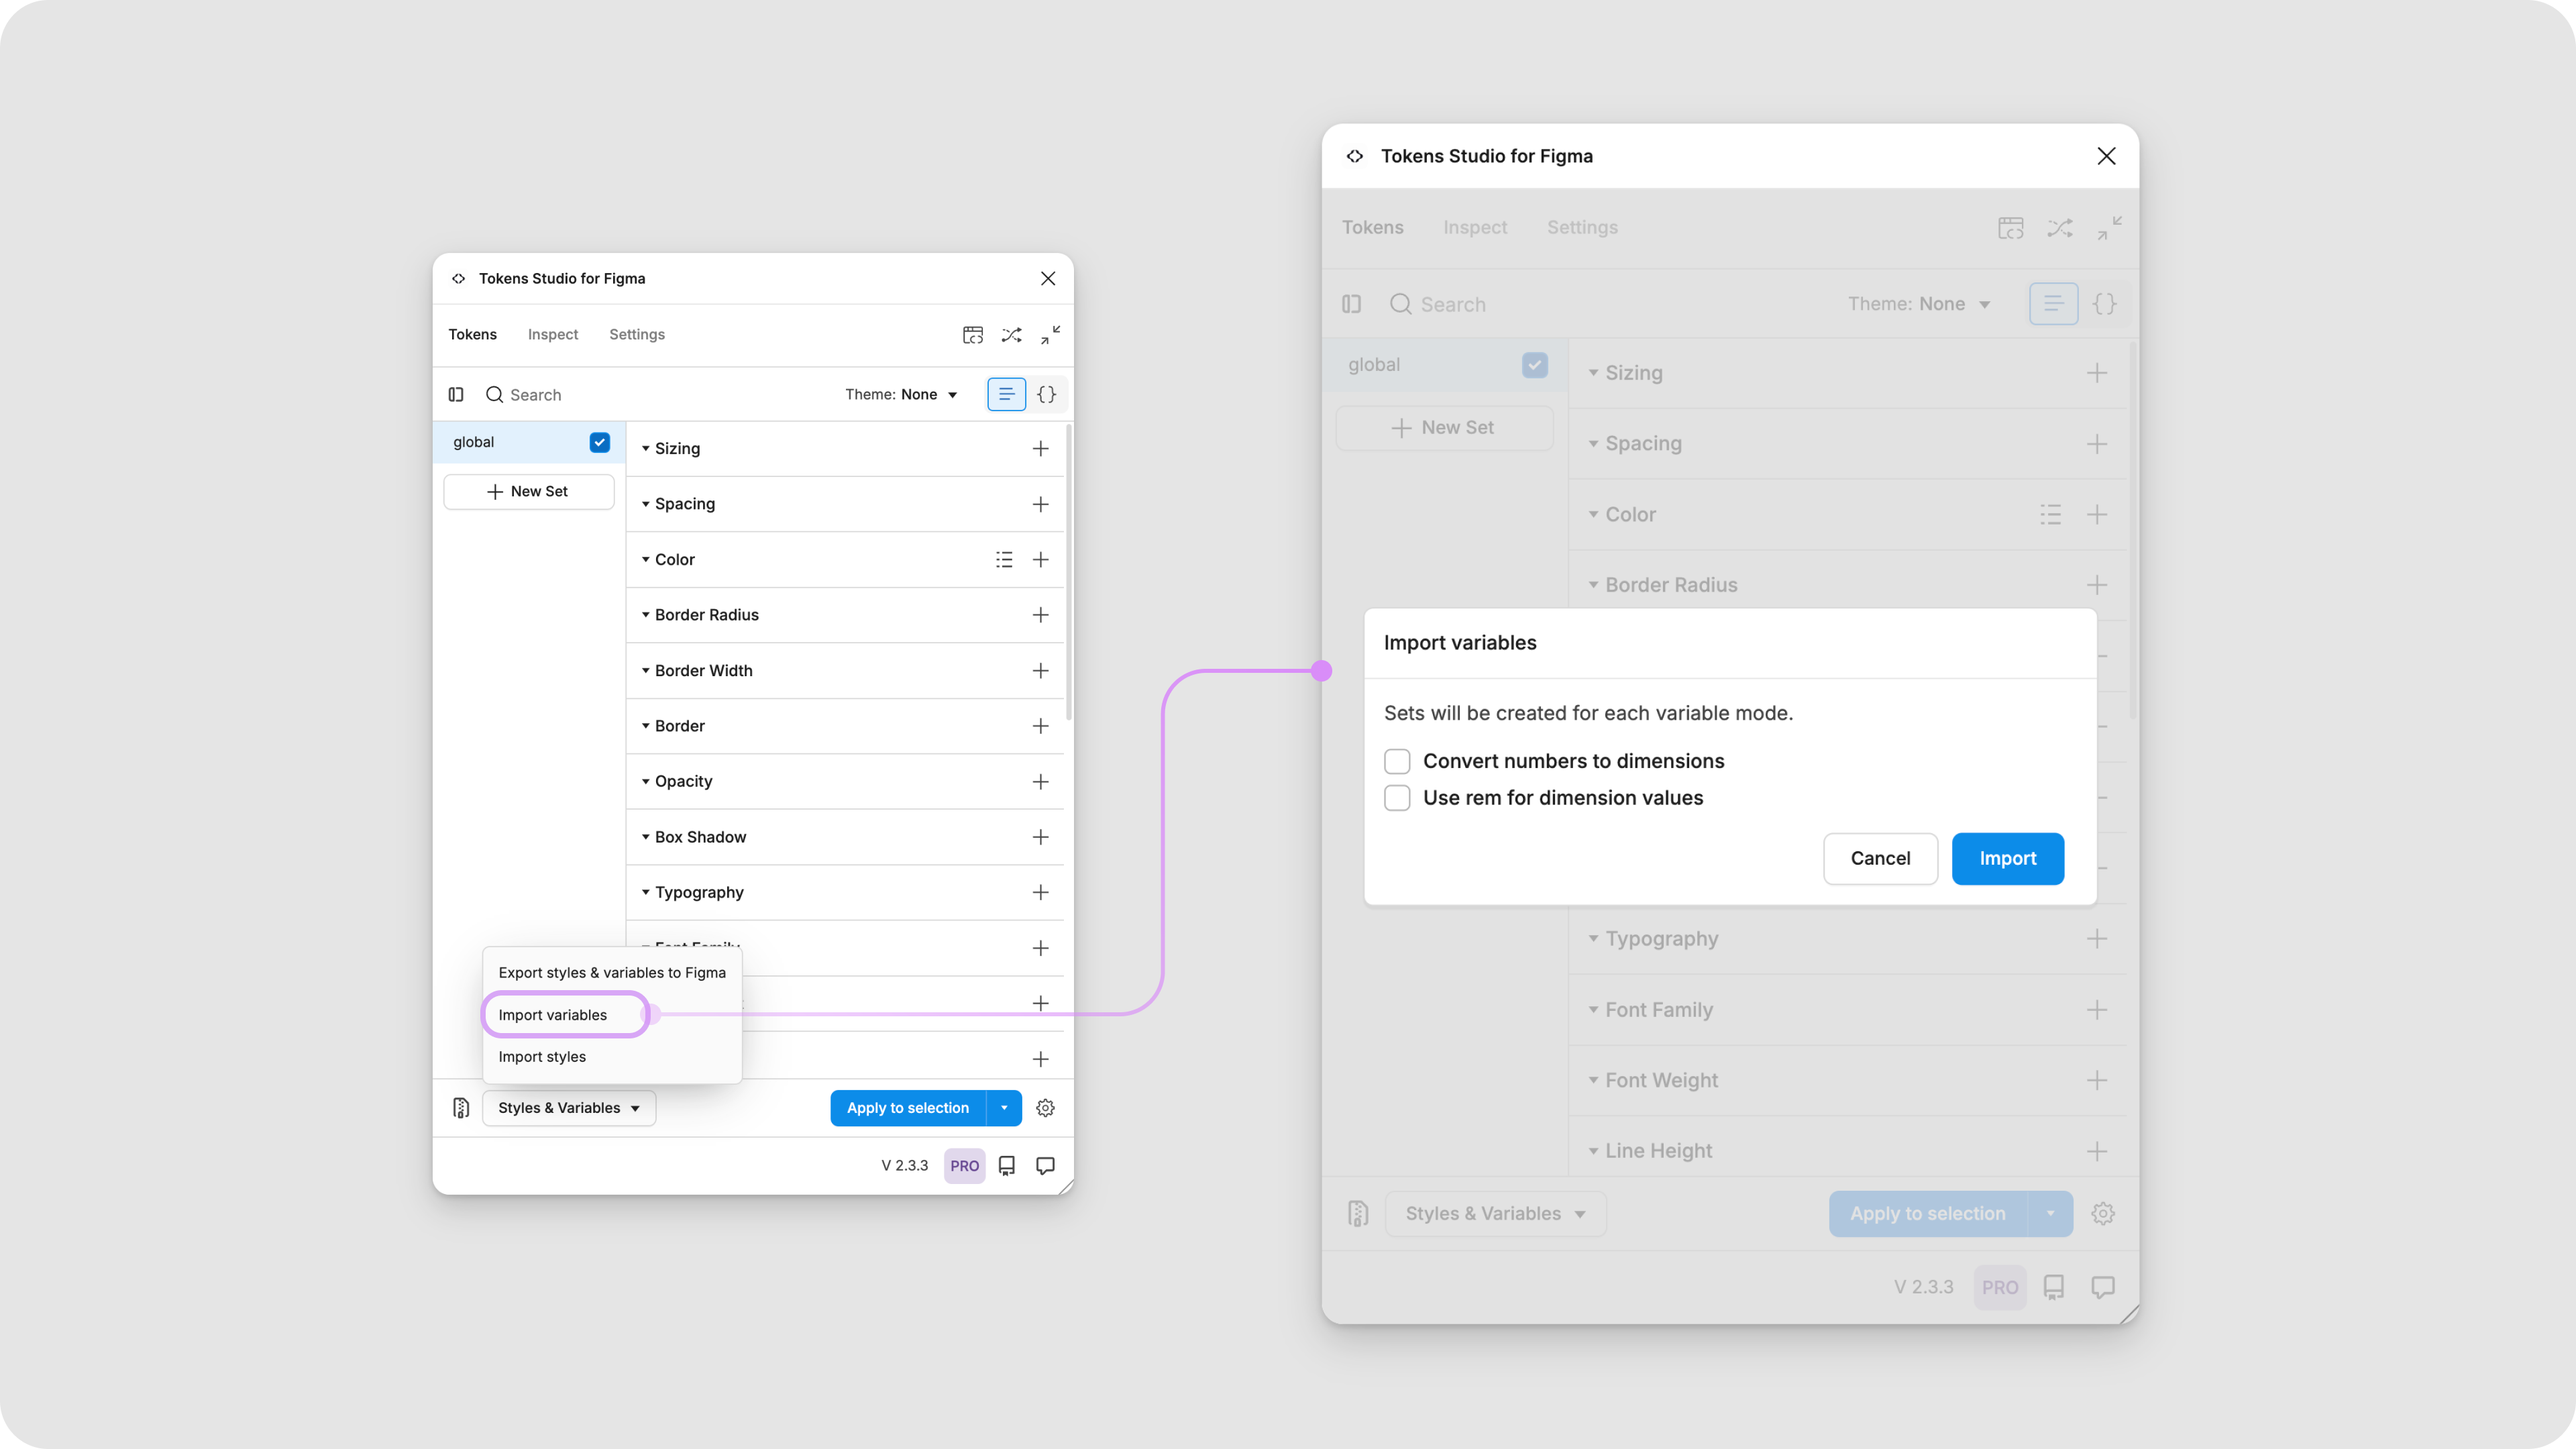
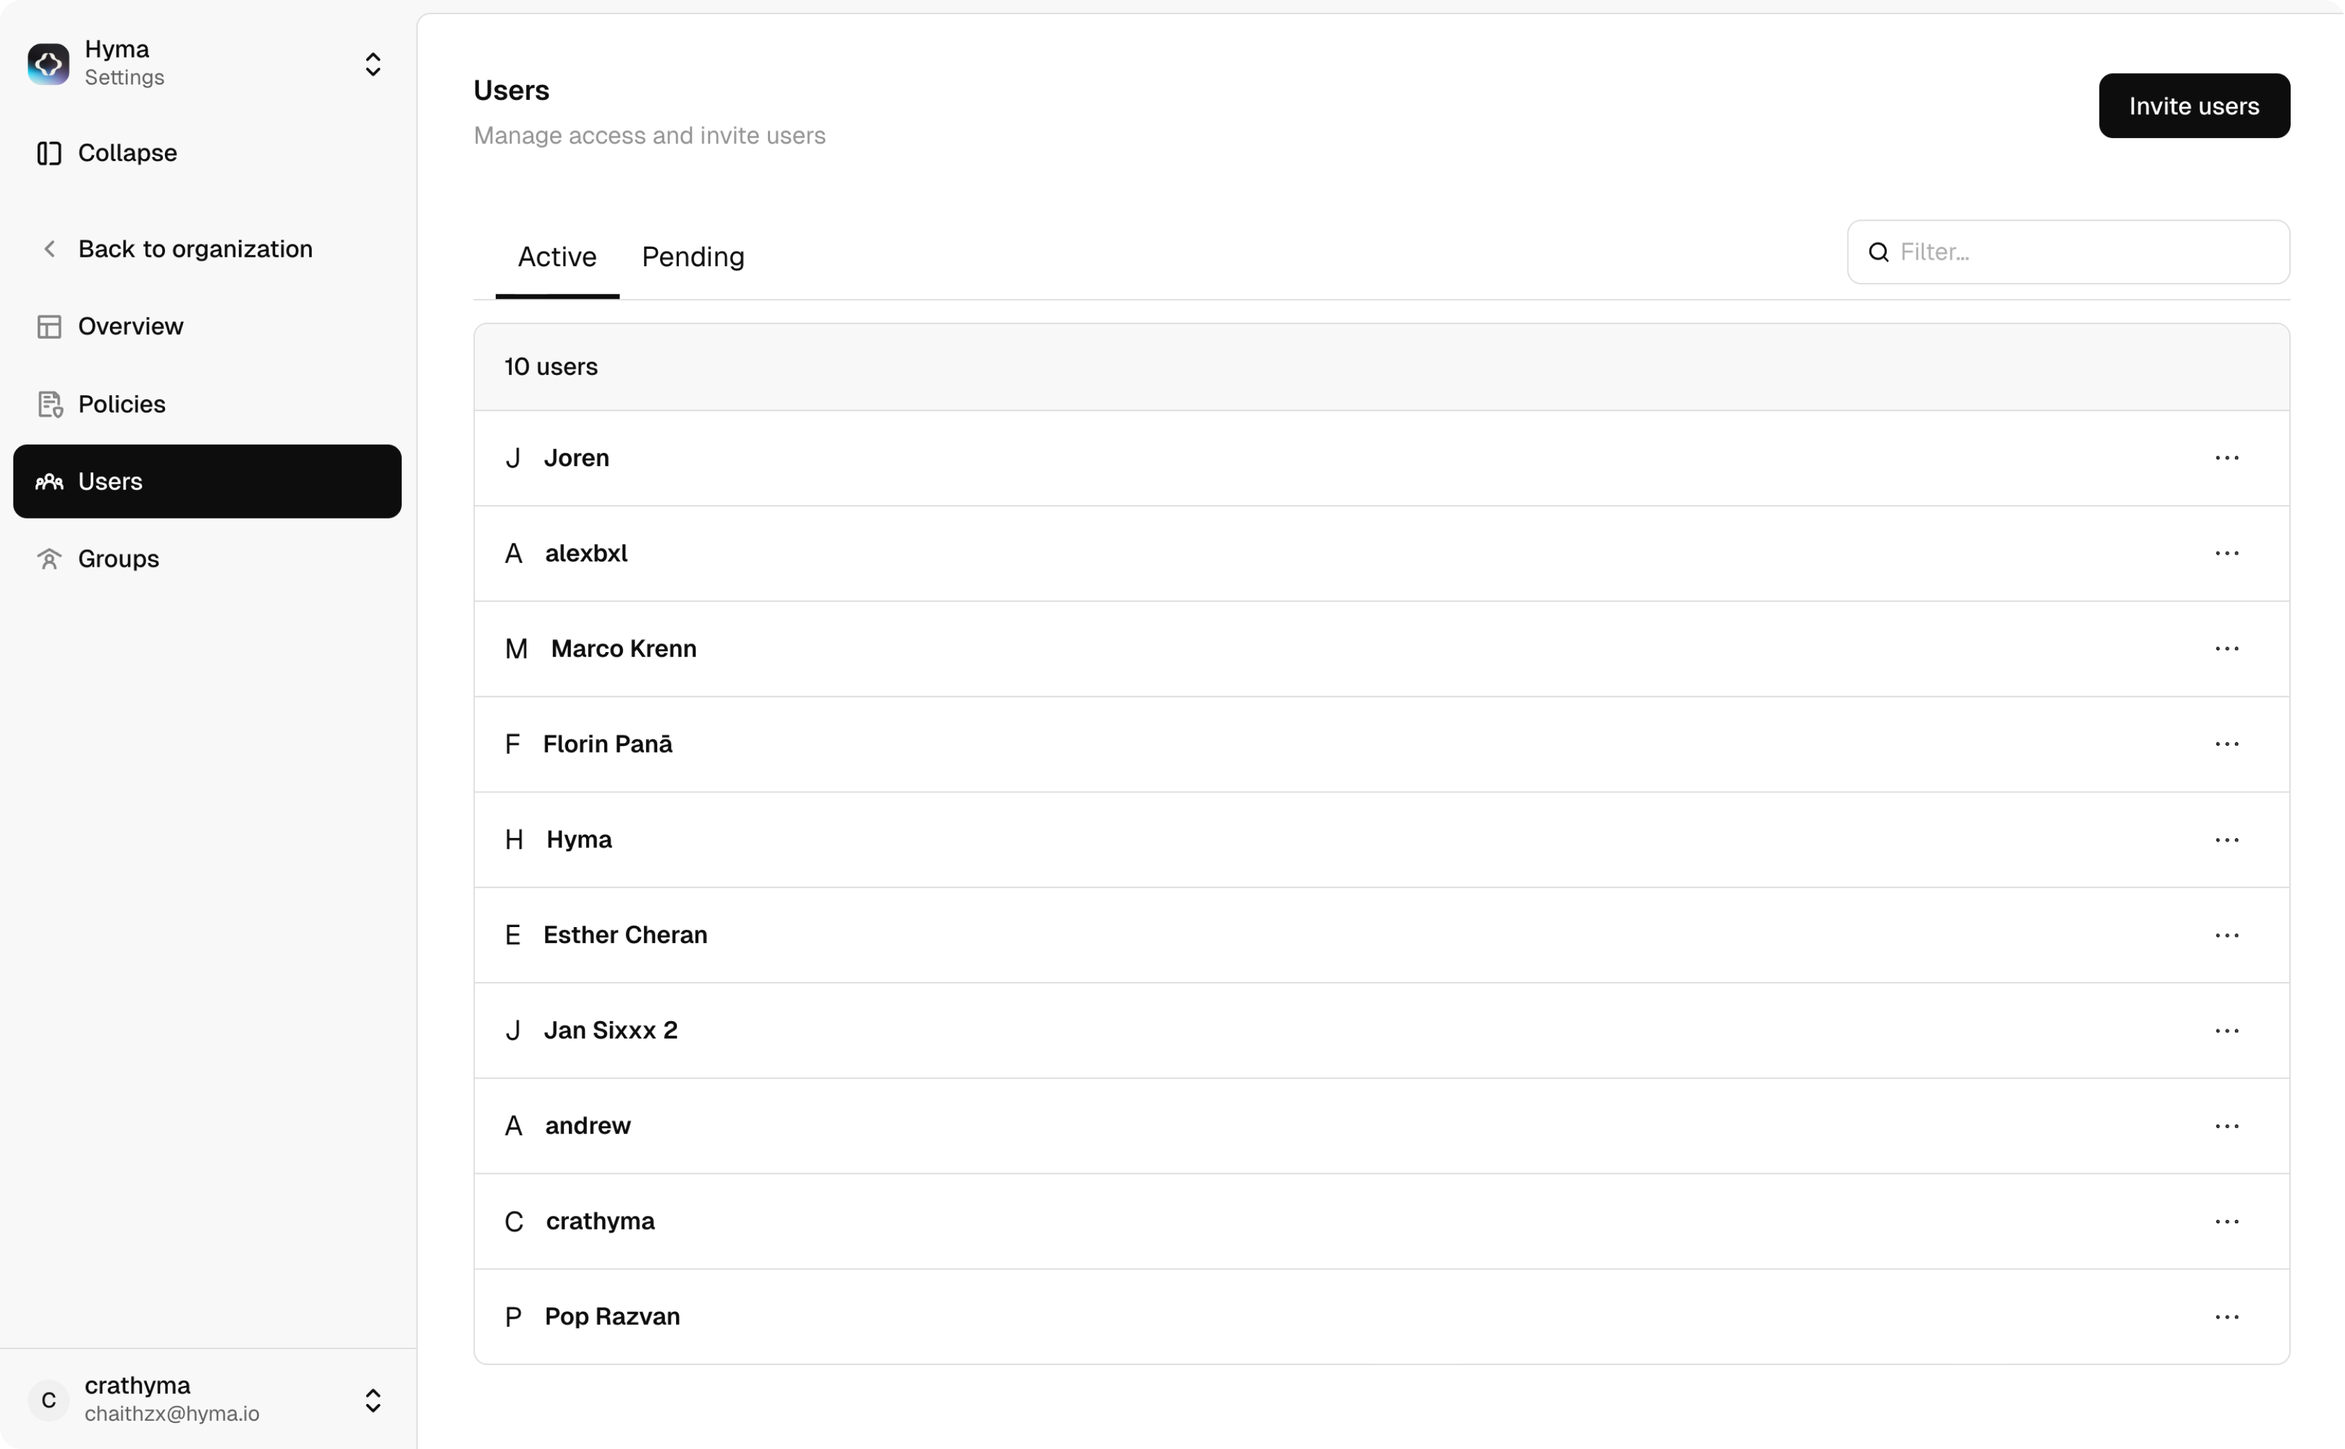
GITBOOK-43: Complete Node Imagery

diff --git a/graph-engine/nodes.md b/graph-engine/nodes.md
@@ -16,6 +16,8 @@ Every node in the Graph Engine follows a consistent design, making them predicta
 * **Inline Values (Optional)**: If turned on, displays the current value at each port (e.g., "#FF5733" next to a color output).
 * **Port Types (Optional)**: If enabled, shows the data type (e.g., "number", "color") next to each port for clarity.
 
+<figure><img src="../.gitbook/assets/image.png" alt=""><figcaption></figcaption></figure>
+
 ### Types of Nodes
 
 **Overview**
@@ -46,6 +48,8 @@ Nodes range from simple helpers (e.g., adding two numbers) to powerful tools (e.
 * **Typography Nodes:** Handles text styling, font properties, and typographic calculations (e.g., "Base Font Size" calculate the base font size with DIN 1450. The output is a number representing the font size in pixels.)
 * **Vector2 Nodes:** Deals with **2D vector operations**, enabling calculations, transformations, and manipulations of two-dimensional coordinate-based data (e.g., "Create vector2" allows you to create a vector2).
 
+<figure><img src="../.gitbook/assets/CleanShot 2025-02-28 at 20.11.03@2x.png" alt=""><figcaption></figcaption></figure>
+
 ### **Subgraph & Array Map Nodes**
 
 These are nodes with big-picture concepts:
@@ -57,3 +61,6 @@ These are nodes with big-picture concepts:
   * **What It Does**: Runs a graph on each item in an array and collects the results.
   * **Example**: Input an array of colors (\["#FF5733", "#33FF57"]), use an internal graph to convert each to HSL, and output \["hsl(14, 100%, 60%)", "hsl(150, 100%, 60%)"].
   * **How**: Drag in an Array Map node, define its internal graph, and connect an array to its input.
+
+<figure><img src="../.gitbook/assets/Sample.gif" alt=""><figcaption></figcaption></figure>
+

diff --git a/platform/platform/organisation.md b/platform/platform/organisation.md
@@ -34,7 +34,7 @@ The **Organisation Settings** page provides an overview of your organisation and
    * The **definition** that specifies the policy rules.
 4. Click **Create** to save the new policy.
 
-<figure><img src="../../.gitbook/assets/image.png" alt=""><figcaption></figcaption></figure>
+<figure><img src="../../.gitbook/assets/image (1).png" alt=""><figcaption></figcaption></figure>
 
 #### Managing Users
 
@@ -47,7 +47,7 @@ The **Users** tab provides a list of active users and pending invitations.
   4. Click **Send Invite**.
 * You can also see **pending invitations** and resend them if needed.
 
-<figure><img src="../../.gitbook/assets/image (1).png" alt=""><figcaption></figcaption></figure>
+<figure><img src="../../.gitbook/assets/image (1) (1).png" alt=""><figcaption></figcaption></figure>
 
 #### Managing Groups
 

diff --git a/setting-up-studio/import-from-figma-variables.md b/setting-up-studio/import-from-figma-variables.md
@@ -29,7 +29,7 @@ In Figma, ensure you have set up Figma Variables that you want to migrate.
 2. Choose whether to convert numbers to dimensions, use rem values, etc.
 3. Click Import.
 
-<figure><img src="../.gitbook/assets/image (1) (1).png" alt=""><figcaption></figcaption></figure>
+<figure><img src="../.gitbook/assets/image (1) (1) (1).png" alt=""><figcaption></figcaption></figure>
 
 _Tip: You might see collections such as “foundation” or “light” and “dark” in Figma, which will become token sets groups and the modes will become token sets in Studio. The Figma collections will be mapped as Theme Groups and modes as Theme Options in Studio._
 {% endstep %}
